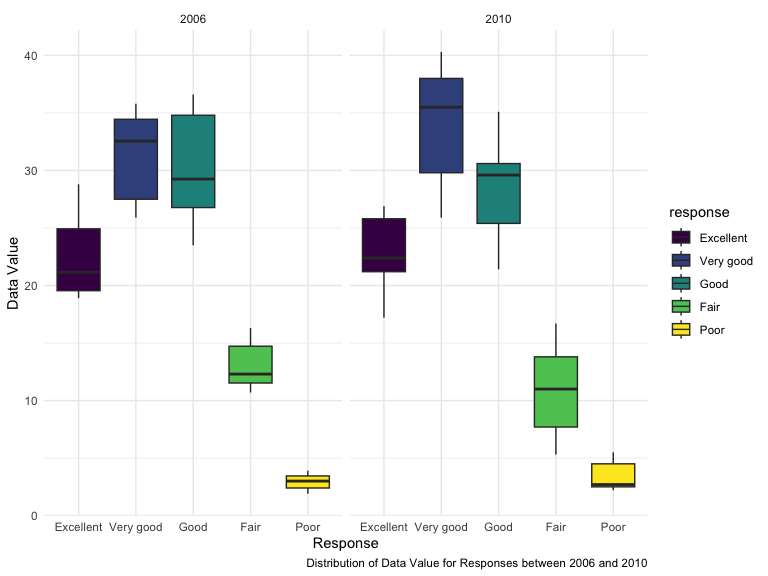
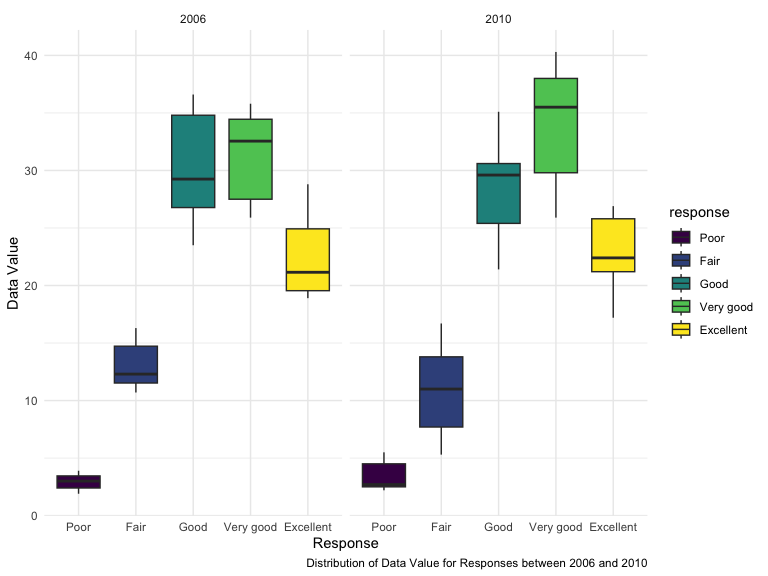
Submission - Change in order of Problem 2 Part 3

diff --git a/p8105_hw3_yy3421.md b/p8105_hw3_yy3421.md
@@ -180,7 +180,7 @@ brfss_smart2010 =
     response == "Excellent"|response == "Very good"|response == "Good"|response == "Fair"|response == "Poor"
   ) |> 
   mutate(
-    response = ordered(response, levels = c("Excellent", "Very good", "Good", "Fair", "Poor"))
+    response = ordered(response, levels = c("Poor", "Fair","Good", "Very good","Excellent"    ))
   ) |> 
   arrange(desc(response))
 ```
